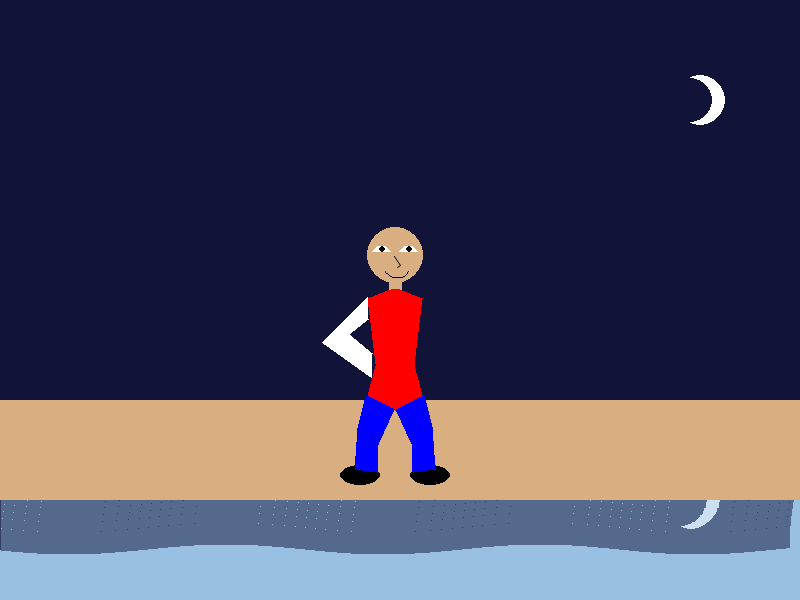
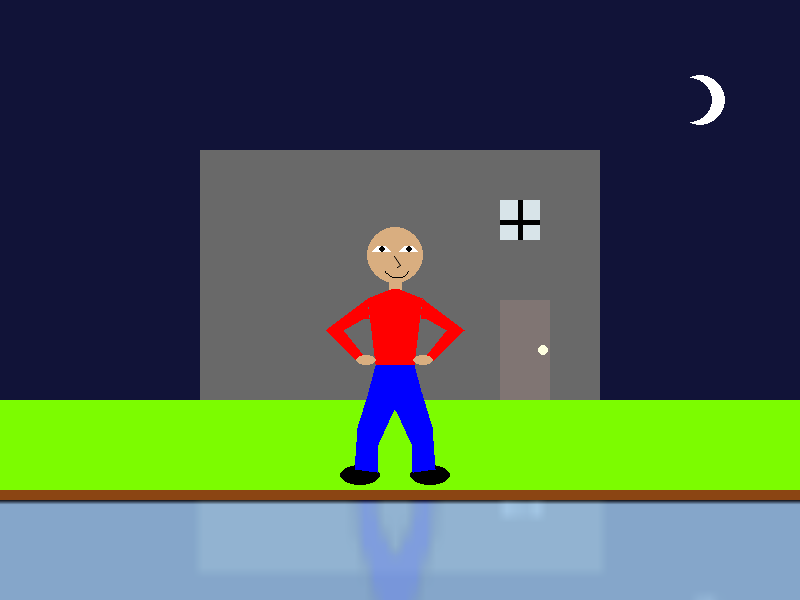
update

diff --git a/Particle_test.py b/Particle_test.py
@@ -1,0 +1,119 @@
+import pygame
+import sys
+import os
+import random
+from Particle import Particle, ParticleEmitter
+from Body import Body
+
+# Initialize Pygame
+pygame.init()
+
+# Screen dimensions
+width, height = 800, 600
+screen = pygame.display.set_mode((width, height))
+pygame.display.set_caption('Pygame Drawing Shapes')
+
+# Colors (R, G, B) and with Alpha
+red = (255, 0, 0)
+green = (0, 255, 0)
+grass = (124, 252, 0)
+blue = (0, 0, 255)
+yellow = (212,175,55)
+purple = (128, 0, 128)
+dark_beige = (217,174,128)
+black = (0,0,0)
+white = (255,255,255)
+night_sky = (19,24,98)
+darker_sky = (17,19,56)
+brown = (139,69,19)
+door = (128,117,115)
+blue_water = (153,192,227)
+dim_gray = (105,105,105)
+yellow = (255,255,224)
+glass = (216,228,233)
+# Colors with alpha for transparency
+transparent_red = (255, 255, 255, 128)  # 50% transparent red
+transparent_black = (15, 15, 15, 128)  # 50% transparent red
+transparent_green = (0, 255, 0, 128)  # 50% transparent green
+
+# Surface for alpha shapes
+alpha_surface = pygame.Surface((width, 400), pygame.SRCALPHA)
+
+
+# Function to save the current screen as a PNG image
+def save_screenshot(filename='screenshot.png'):
+    pygame.image.save(screen, filename)
+    print(f"Screenshot saved as {filename}")
+
+clock = pygame.time.Clock()
+
+particles = []
+emitters = [ParticleEmitter([0,0])]
+img = pygame.image.load(os.path.join('.' ,'drag.png')).convert_alpha()
+img = pygame.transform.smoothscale(img, (100, 100))
+font = pygame.font.Font(None, 36)
+sum_x = 0
+sum_y = 0
+non_transparent_pixel_count = 0
+for x in range(0,img.get_width(),1):
+    for y in range(0,img.get_height(),1):
+        pixel_color = img.get_at((x, y))   
+        if(pixel_color[3] > 0):
+            p_x = round(x + width/2)
+            p_y = round(y + height/2)
+            particles.append(Particle([p_x,p_y],[0,0],pixel_color,2))
+            sum_x += p_x
+            sum_y += p_y
+            non_transparent_pixel_count += 1
+print(f"non_transparent_pixel_count: {non_transparent_pixel_count}")
+if non_transparent_pixel_count > 0:
+    dragon_center = [sum_x // non_transparent_pixel_count,  sum_y // non_transparent_pixel_count]
+    print(f"Dragon center: {dragon_center}")
+else:
+    print("No non-transparent pixels found!")
+dragon = Body([0,0],dragon_center,particles)
+# Main loop
+running = True
+frames = 0
+while running:
+    dt = clock.tick(60)/1000
+
+    for event in pygame.event.get():
+        if event.type == pygame.QUIT:
+            pygame.quit()
+            sys.exit()
+        elif event.type == pygame.KEYDOWN:
+            if event.key == pygame.K_s:
+                save_screenshot()  # Save screenshot when 'S' key is pressed
+            elif event.key == pygame.K_SPACE:
+                dragon.separate()
+            elif event.key == pygame.K_LEFT:
+                dragon.vel[0] -= 1000 * dt
+            elif event.key == pygame.K_RIGHT:
+                dragon.vel[0] += 1000 * dt
+        elif event.type == pygame.MOUSEBUTTONDOWN:
+            mouse_pos = pygame.mouse.get_pos()
+            print(mouse_pos)
+            #print(screen.get_at(mouse_pos))
+
+    fps_text = font.render(f"FPS: {int(clock.get_fps())}", True, (255, 255, 255))
+    #print(clock.get_fps()) #test to see how slow 
+    # Fill background with black
+    screen.fill(black)
+    screen.blit(fps_text,(0,0))
+    #screen.blit(img,(0,0)) 
+
+    dragon.draw(screen)
+    dragon.update(frames,dt)
+ 
+    frames += 1
+    for x in range(0,10000,1):
+        pygame.draw.circle(screen, (255,0,0),[random.uniform(0,800),random.uniform(0,600)],2)
+
+    pygame.draw.circle(screen, (255,0,0),dragon.com,2)
+
+    # Update display
+    pygame.display.flip()
+
+pygame.quit()
+sys.exit()

diff --git a/Body.py b/Body.py
@@ -1,0 +1,68 @@
+import pygame
+import random
+import math
+from Particle import Particle, ParticleEmitter
+
+class Body:
+    def __init__(self, vel,com, particles):
+        self.vel = vel
+        self.com = com
+        self.particles = particles
+        for p in self.particles:
+            p.distance[0] = p.pos[0] - self.com[0]
+            p.distance[1] = p.pos[1] - self.com[1]
+        self.separated = False
+
+    def draw(self, screen):
+        for p in self.particles:
+            # if(not p.rigid):
+            #     print("not rigid")
+            pygame.draw.circle(screen, p.color,p.pos,p.radius)
+        
+    def update(self, frames, dt):
+        if(frames < 200):
+            self.vel[0] += 0 *dt
+            # p.vel[1] += random.uniform(-10, 10) *dt
+            #p.vel[1] += random.choice([-10, 10]) * dt
+            # self.vel[1] += 10 * dt
+
+        # else:
+        #     vel[1] = (orig_pos[sum][1] - p.pos[1]) * 1000 * dt
+
+        self.com[0] += self.vel[0] *dt
+        self.com[1] += self.vel[1] *dt
+        if(self.com[0] <= 0):
+            self.com[0] = 0
+        if(self.com[0] >= 800):
+            self.com[0] = 800
+        if(self.com[1] <= 0):
+            self.com[1] = 0
+        if(self.com[1] >= 600):
+            self.com[1] = 600
+        if(not self.separated):
+            for p in self.particles:
+                if(p.rigid== False):
+                    target_x =  p.distance[0] + self.com[0] 
+                    target_y = p.distance[1] + self.com[1] 
+                    p.pos[0] += (target_x - p.pos[0]) * 5 * dt
+                    p.pos[1] += (target_y - p.pos[1])* 5 * dt
+                    if(int(round(p.pos[0]))==int(target_x) and int(round(p.pos[1]))==int(target_y)):
+                        p.rigid = True
+                elif(p.rigid):
+                    p.pos[0] = p.distance[0] + self.com[0] 
+                    p.pos[1] = p.distance[1] + self.com[1] 
+        if(self.separated):
+            for p in self.particles:
+                p.vel[0] += random.uniform(-1000,1000) * dt
+                p.vel[1] += random.uniform(-1000,1000) * dt
+                p.pos[0] += p.vel[0] *dt 
+                p.pos[1] += p.vel[1] * dt
+
+    def separate(self):
+        self.separated = not self.separated
+        for p in self.particles:
+            # target_x =  p.distance[0] + self.com[0] 
+            # target_y = p.distance[1] + self.com[1]
+            # if(p.pos[0]!=target_x and p.pos[1]!=target_y):
+            p.rigid = False
+    

diff --git a/Assignment1.py b/Assignment1.py
@@ -1,6 +1,6 @@
 import pygame
 import sys
-import math
+from math import radians 
 
 # Initialize Pygame
 pygame.init()
@@ -102,15 +102,15 @@ while running:
     #nose
     pygame.draw.aalines(human_surface, black,False, [(394, 256),(400, 265),(397, 267)])
     #mouth
-    pygame.draw.arc(human_surface, black, (385,258,25,20),math.radians(200),math.radians(340))
+    pygame.draw.arc(human_surface, black, (385,258,25,20),radians(200),radians(340))
     #torso
     pygame.draw.polygon(human_surface, red, [(391, 289),(368, 298),(376, 364),(414, 364),(422, 298),(399, 289)] )
     #left arm
-    pygame.draw.polygon(human_surface, white, [(369, 318),(364, 318),(343, 330),(363, 355),(357, 360),(326, 330),(367, 299)])
+    pygame.draw.polygon(human_surface, red, [(369, 315),(364, 318),(343, 330),(363, 355),(357, 360),(326, 330),(369, 299)])
     #left hand
     pygame.draw.ellipse(human_surface, dark_beige, (356, 355, 20, 10))
     #right arm
-    pygame.draw.polygon(human_surface, white, [(421, 318),(426, 318),(447, 330),(427, 355),(433, 360),(464, 330),(423, 299)])
+    pygame.draw.polygon(human_surface, red, [(420, 315),(426, 318),(447, 330),(427, 355),(433, 360),(464, 330),(422, 299)])
     #right hand
     pygame.draw.ellipse(human_surface, dark_beige, (413, 355, 20, 10))
     #waist
@@ -148,6 +148,10 @@ while running:
     # pygame.draw.ellipse(rect_surface, (white[0],white[1],white[2],255), (330, 30, 140, 60),1)
     # pygame.draw.ellipse(rect_surface, (white[0],white[1],white[2],255), (310, 20, 180, 80),1)
     # pygame.draw.ellipse(rect_surface, (white[0],white[1],white[2],255), (290, 10, 220, 100),1)
+    # pygame.draw.ellipse(rect_surface, (white[0],white[1],white[2],255), (250, 25, 400, 100),1)
+    # pygame.draw.ellipse(rect_surface, (white[0],white[1],white[2],255), (130, 10, 600, 160),1)
+    # pygame.draw.ellipse(rect_surface, (white[0],white[1],white[2],255), (50, 5, 750, 200),1)
+    # pygame.draw.ellipse(rect_surface, (white[0],white[1],white[2],255), (10, 1, 880, 220),1)
     scaled_surface3 = pygame.transform.smoothscale(rect_surface, (rect_surface.get_width() // 2, rect_surface.get_height() // 2))
     scaled_surface3 = pygame.transform.smoothscale(scaled_surface3, (rect_surface.get_width(), rect_surface.get_height()))
     screen.blit(scaled_surface3,(0,500))

diff --git a/Particle.py b/Particle.py
@@ -1,0 +1,15 @@
+class Particle:
+    def __init__(self, pos, vel, color, radius):
+        self.pos = pos
+        self.vel = vel
+        self.color = color
+        self.radius = radius
+        self.distance = [0,0]
+        self.rigid = True
+
+
+class ParticleEmitter:
+    def __init__(self, pos):
+        self.pos = pos
+    def emit(self):
+        print("test")

diff --git a/shapes_class6.py b/shapes_class6.py
@@ -42,7 +42,7 @@ while True:
     screen.fill((0, 0, 0))
 
     # Draw a polygon
-    pygame.draw.polygon(screen, red, [(100, 100), (150, 50), (200, 100), (175, 150), (125, 150)])
+    pygame.draw.polygon(screen, red, [(100.01, 100), (150, 50), (200, 100), (175, 150), (125, 150)])
 
     # Draw a line
     pygame.draw.line(screen, green, (50, 300), (200, 300), 5)
